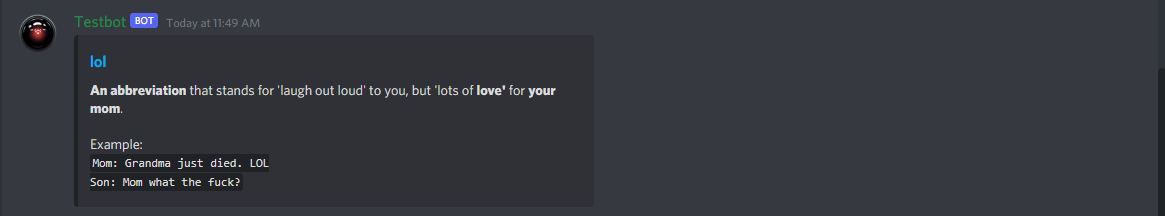
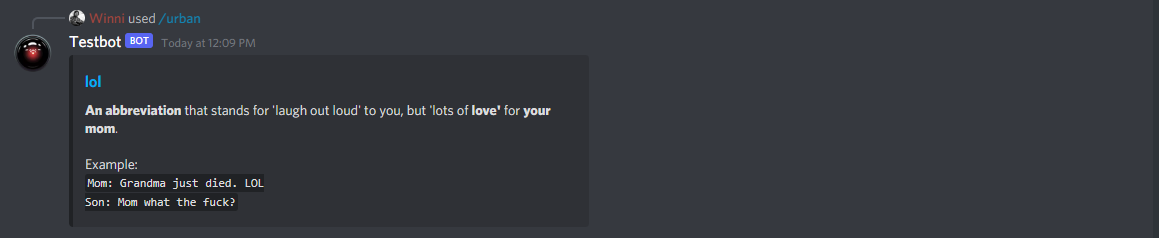
v1.4.6-DEV: Slash all the commands \o/
* Converted `!urban` into slash cmd `/urban`
* Updated `!help` accordingly
* Updated README.md
* Updated screenshots
* Added `-r` parameter for resetting all slash commands
* Added slash cmd editing for already registered cmds

diff --git a/bot/bot.go b/bot/bot.go
@@ -164,10 +164,20 @@ func (b *Bot) Run() {
 	// Register the slash commands (if not already registered)
 	for _, slashCmd := range b.SlashCmdList() {
 		isNew := true
+		hasChanged := false
 		for _, regCmd := range registeredCmds {
-			if slashCmd.Name == regCmd.Name {
-				l.Debugf("Slash command %q already registered. Skipping.", slashCmd.Name)
+			if slashCmd.Name == regCmd.Name && slashCmd.Description == regCmd.Description {
+				l.Debugf("Slash command %q already registered. Skipping.", regCmd.Name)
 				isNew = false
+				hasChanged = false
+				break
+			}
+			if slashCmd.Name == regCmd.Name && slashCmd.Description != regCmd.Description {
+				l.Debugf("Slash command %q changed. Editing...", regCmd.Name)
+				isNew = false
+				hasChanged = true
+				slashCmd.ID = regCmd.ID
+				break
 			}
 		}
 		if isNew {
@@ -183,6 +193,21 @@ func (b *Bot) Run() {
 					return
 				}
 				l.Debugf("[%v] Registration completed", s.Name)
+			}(slashCmd)
+		}
+		if hasChanged {
+			go func(s *discordgo.ApplicationCommand) {
+				randNum, _ := random.Number(2000)
+				randNum += 1000
+				randDelay, _ := time.ParseDuration(fmt.Sprintf("%dms", randNum))
+				time.Sleep(randDelay)
+				l.Debugf("[%v] Updating slash command...", s.Name)
+				_, err = b.Session.ApplicationCommandEdit(b.Session.State.User.ID, GuildID, s.ID, s)
+				if err != nil {
+					l.Errorf("[%v] Update failed: %v", s.Name, err)
+					return
+				}
+				l.Debugf("[%v] Update completed", s.Name)
 			}(slashCmd)
 		}
 	}
@@ -217,4 +242,54 @@ func (b *Bot) Run() {
 			go b.CheckSotAuth()
 		}
 	}
+}
+
+func (b *Bot) ResetSlashCmds() {
+	l := log.WithFields(log.Fields{
+		"action": "bot.ResetSlashCmds",
+	})
+	l.Infof("Initializing bot for 'reset all slash commands' run...")
+
+	discordObj, err := discordgo.New("Bot " + b.AuthToken)
+	if err != nil {
+		l.Errorf("Error creating discord session: %v", err)
+		return
+	}
+	b.Session = discordObj
+
+	// What events do we wanna see?
+	b.Session.Identify.Intents = discordgo.IntentsGuilds |
+		discordgo.IntentsGuildMessages |
+		discordgo.IntentsGuildVoiceStates |
+		discordgo.IntentsDirectMessages |
+		discordgo.IntentsGuildPresences
+
+	// Open the websocket and begin listening.
+	err = b.Session.Open()
+	if err != nil {
+		l.Errorf("Error opening discord session: %v", err)
+		return
+	}
+
+	// Get list of registered slash commands
+	registeredCmds, err := b.Session.ApplicationCommands(b.Session.State.User.ID, GuildID)
+	if err != nil {
+		l.Errorf("Failed to read slash command list from Discord server: %v", err)
+	}
+
+	// Delete all registerd slash commands
+	for _, regCmd := range registeredCmds {
+		l.Debugf("Removing slash command %q...", regCmd.Name)
+		err = b.Session.ApplicationCommandDelete(b.Session.State.User.ID, GuildID, regCmd.ID)
+		if err != nil {
+			l.Errorf("Failed to delete slash command: %v", err)
+			continue
+		}
+		l.Debugf("Slash command %q successfully removed...", regCmd.Name)
+	}
+
+	if err := b.Session.Close(); err != nil {
+		l.Errorf("Failed to close discord connection: %v", err)
+	}
+	os.Exit(0)
 }

diff --git a/bot/slashcmd_handler.go b/bot/slashcmd_handler.go
@@ -324,5 +324,21 @@ func (b *Bot) SlashCmdHandler(s *discordgo.Session, i *discordgo.InteractionCrea
 		}
 		response.SlashCmdResponseEdit(s, i.Interaction, userObj, re, true)
 		return
+
+	// UD: Return the explanation of a random or specific term from UD
+	case cmdName == "urban":
+		response.SlashCmdResponseDeferred(s, i.Interaction)
+		udTerm := ""
+		if len(i.Data.Options) == 1 {
+			udTerm = i.Data.Options[0].StringValue()
+		}
+		em, err := handler.UrbanDict(b.HttpClient, udTerm)
+		if err != nil {
+			re := fmt.Sprintf("An error occurred fetching term from UD: %v", err)
+			response.SlashCmdResponseEdit(s, i.Interaction, userObj, re, true)
+			return
+		}
+		response.SlashCmdEmbedDeferred(s, i.Interaction, em)
+		return
 	}
 }

diff --git a/handler/help.go b/handler/help.go
@@ -8,8 +8,6 @@ func Help() []string {
                                    random movie is chosen
    !tv <query>                   - Look up the <query> in the TMDb TV series database. If <query> is omitted, a
                                    random TV series is chosen
-   [!urban|!ud] <term>           - Looks up the <term> in Urban Dictionary. If <term> is omitted, a random
-                                   term is chosen
    [!userinfo|!info]             - Tells you, if you are registered with the myself
    [!register|!reg] <@nick>      - Registers <@nick> as user in the bot's database for them to access
                                    some advances features (like the SoT commands)

diff --git a/bot/slashcmd_list.go b/bot/slashcmd_list.go
@@ -61,6 +61,20 @@ func (b *Bot) SlashCmdList() []*discordgo.ApplicationCommand {
 			},
 		},
 
+		// Return a random (or specific) explanation from urban dictionary
+		{
+			Name:        "urban",
+			Description: "Let SoTBot explain to you what a random or specific term means according to urban dictionary",
+			Options: []*discordgo.ApplicationCommandOption{
+				{
+					Type:        discordgo.ApplicationCommandOptionString,
+					Name:        "term",
+					Description: "Term to look up. If empty a random term is fetched",
+					Required:    false,
+				},
+			},
+		},
+
 		// With /play you can have the bot join a voice channel and play
 		// a pre-defined audio file
 		{

diff --git a/cmd/sotbot/main.go b/cmd/sotbot/main.go
@@ -21,6 +21,7 @@ func init() {
 func main() {
 	flag.Usage = printHelp
 	confDir := flag.String("c", "", "Add custom config path for bot.json file")
+	resetSlashCmds := flag.Bool("r", false, "Delete all registered slash cmds for a fresh start")
 	flag.Parse()
 
 	botConf := viper.New()
@@ -40,5 +41,10 @@ func main() {
 	bot.SetLogLevel(botConf.GetString("loglevel"))
 
 	botObj := bot.NewBot(botConf)
-	botObj.Run()
+	switch {
+	case *resetSlashCmds:
+		botObj.ResetSlashCmds()
+	default:
+		botObj.Run()
+	}
 }

diff --git a/api/urbandict_term.go b/api/urbandict_term.go
@@ -6,6 +6,7 @@ import (
 	log "github.com/sirupsen/logrus"
 	"github.com/wneessen/sotbot/httpclient"
 	"net/http"
+	"net/url"
 )
 
 type UrbanDictEntry struct {
@@ -31,6 +32,7 @@ func GetUrbanDict(hc *http.Client, w string) (UrbanDictEntry, error) {
 		apiUrl = "https://api.urbandictionary.com/v0/random"
 	}
 	if w != "" {
+		w = url.PathEscape(w)
 		apiUrl = fmt.Sprintf("https://api.urbandictionary.com/v0/define?term=%v", w)
 	}
 

diff --git a/README.md b/README.md
@@ -168,13 +168,21 @@ Example:
 ![Screenshot /fact](documentation/fact.png)
 
 ### Open Weather Map
-By issuing the `/weather` command, you can have the bot look up the current weather in a provided location.
+By issuing the `/weather` slash command, you can have the bot look up the current weather in a provided location.
 
 For this feature to work, you need a valid API key for the OWM API. If no API key is found in the config file, an
 error will be returned from the bot.
 
 Example:
 ![Screenshot /weather](documentation/weather.png)
+
+### Urban dictionary
+To query the Urban Dictionary, you can use the `/urban` slash command. If used without an arguments, a random
+term will be looked up. If followed by a term, the actual term will be looked up and the first result presented to
+the requester.
+
+Example:
+![Screenshot /urban](documentation/urban.png)
 
 
 ### Sea of Thieves related commands
@@ -297,14 +305,6 @@ has likely expired and you need to renew it. Once done, it will not notify you a
 `!setrat` command again to update your cookie. This will reset the "notified" flag for the user. When the "notified"
 flag is set, the bot will also not try to access the API anymore to avoid too many failed requests until the 
 "notifed" flag was removed.
-
-### Urban dictionary
-To query the Urban Dictionary, you can use the `!urban` or `!ud` command. If used without any arguments, a random
-term will be looked up. If followed by a term, the actual term will be looked up and the first result presented to
-the requester.
-
-Example:
-![Screenshot !ud](documentation/urban.png)
 
 ### The Movie Database
 With the `!movie` command, you can have the bot look up a random movie from [The Movie Database](https://themoviedb.org) 
